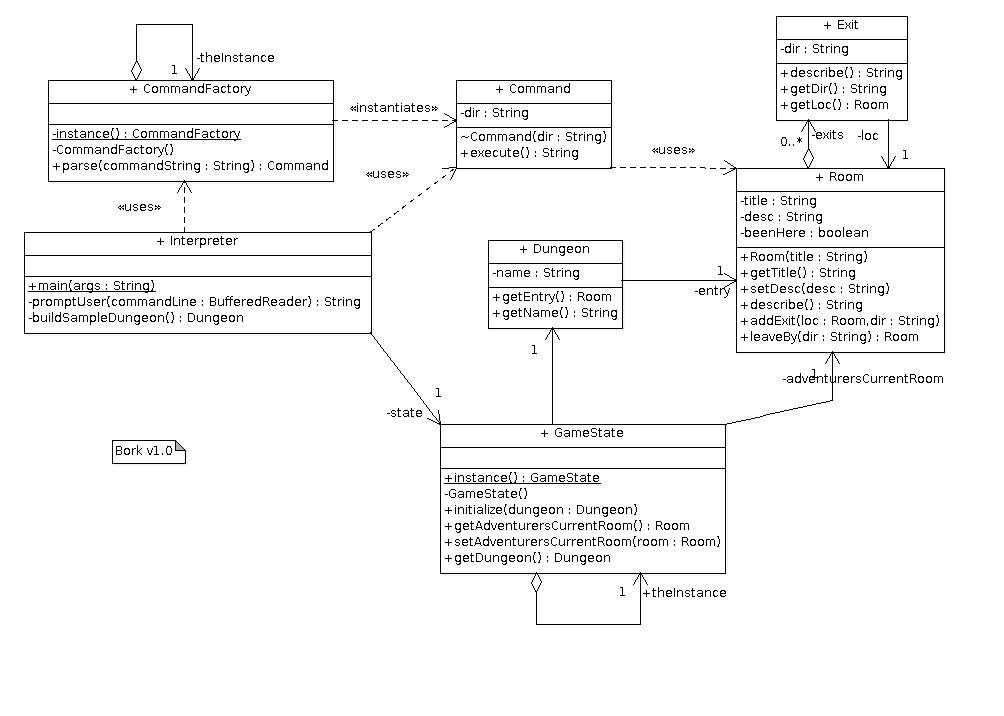
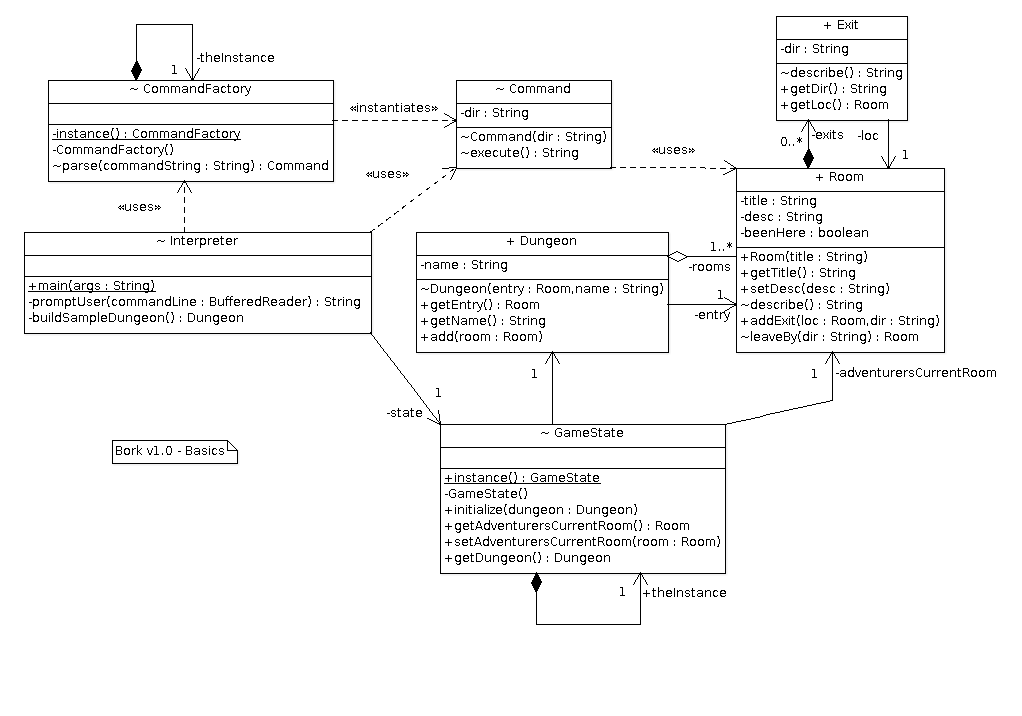
Make compatible with v1 requirements.

diff --git a/src/edu/umw/bork/stephen/Dungeon.java b/src/edu/umw/bork/stephen/Dungeon.java
@@ -1,20 +1,24 @@
 
 package edu.umw.bork.stephen;
 
+import java.util.ArrayList;
 
 public class Dungeon {
 
     private String name;
     private Room entry;
+    private ArrayList<Room> rooms;
 
     Dungeon(String name, Room entry) {
         this.name = name;
         this.entry = entry;
+        rooms = new ArrayList<Room>();
     }
 
     // for persistence, a big ol constructor will load from file.
     
     public Room getEntry() { return entry; }
     public String getName() { return name; }
+    public void add(Room room) { rooms.add(room); }
 
 }

diff --git a/src/edu/umw/bork/stephen/Interpreter.java b/src/edu/umw/bork/stephen/Interpreter.java
@@ -29,7 +29,7 @@ public class Interpreter {
 
         command = promptUser(commandLine);
 
-        while (!command.equals("quit")) {
+        while (!command.equals("q")) {
 
             System.out.println(
                 CommandFactory.instance().parse(command).execute());

diff --git a/src/edu/umw/bork/stephen/Room.java b/src/edu/umw/bork/stephen/Room.java
@@ -20,10 +20,6 @@ public class Room {
 
     String getTitle() { return title; }
 
-    String getDesc() { 
-        return desc;
-    }
-
     void setDesc(String desc) { this.desc = desc; }
 
     public String describe() {
